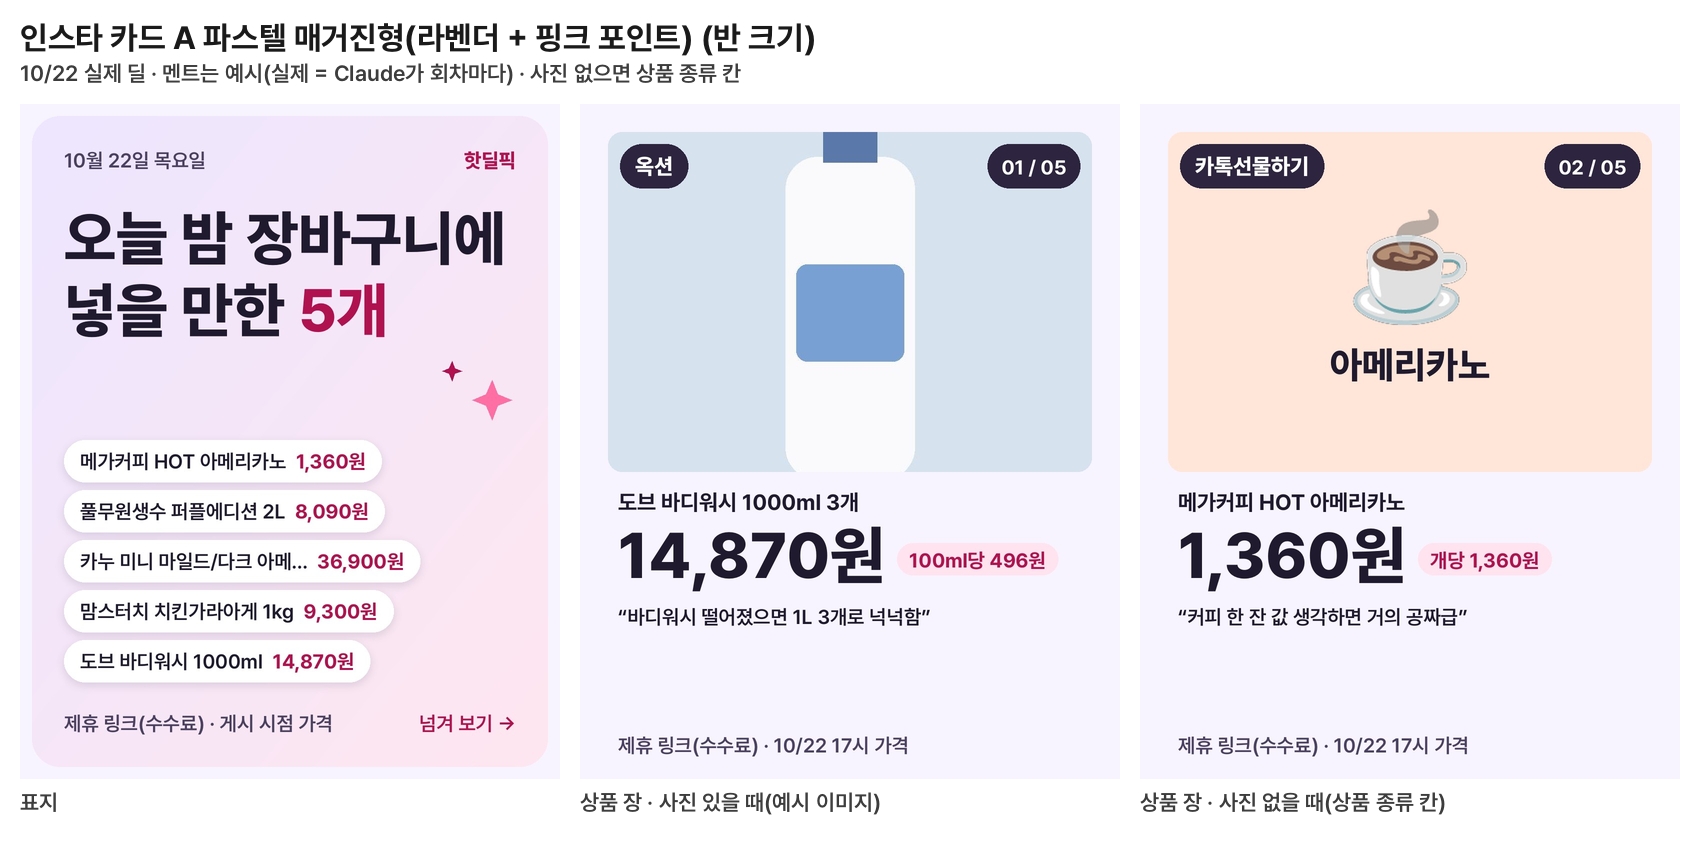
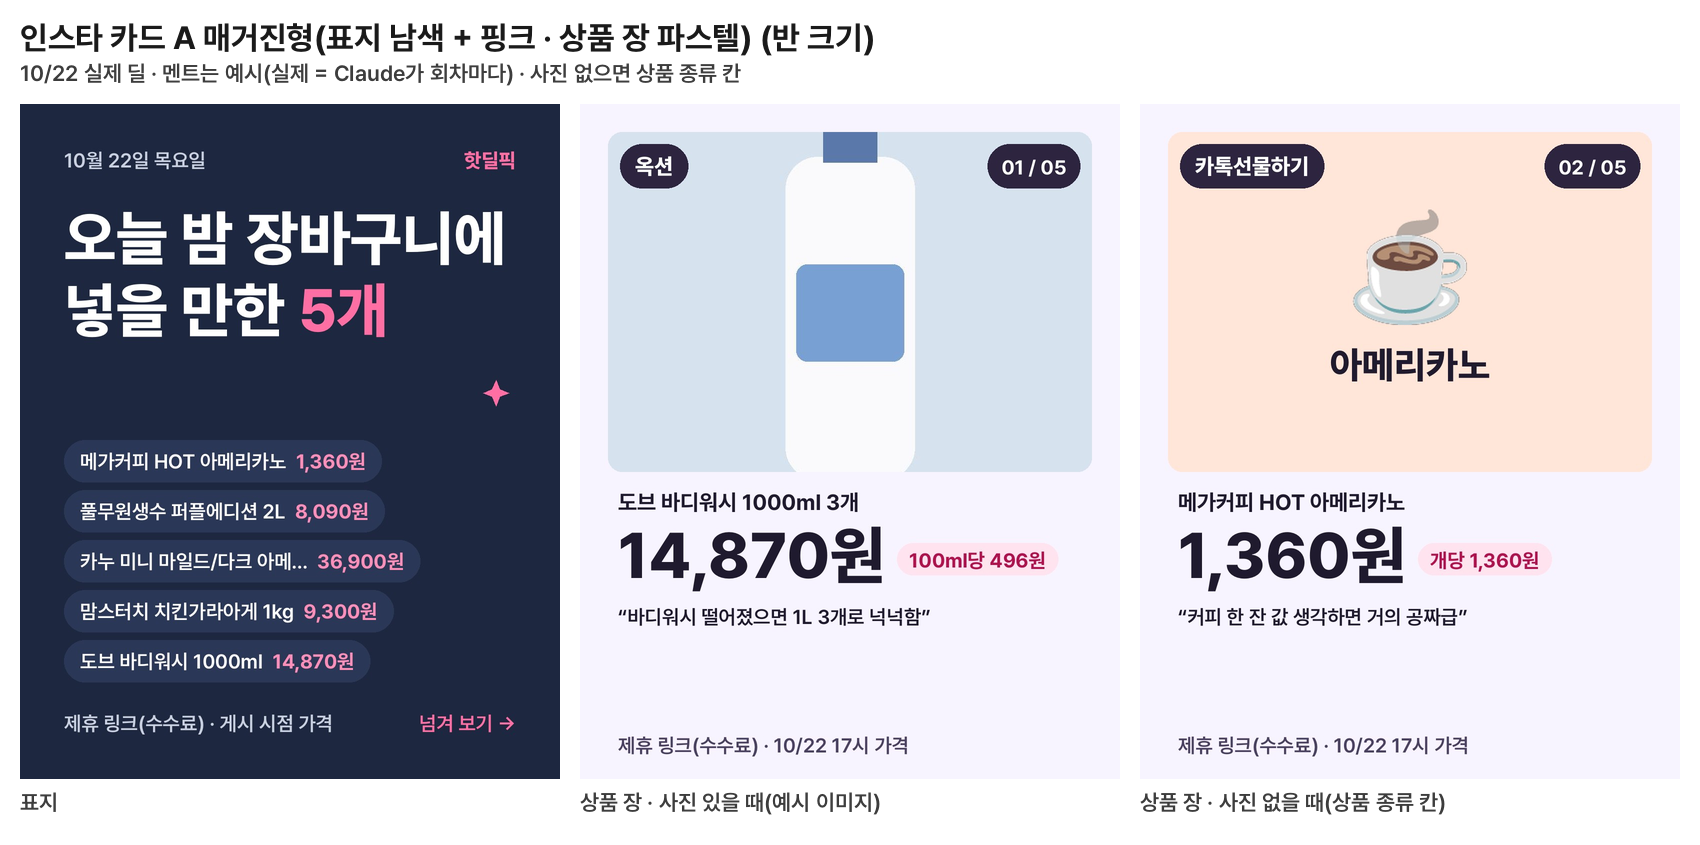
인스타 카드 A 최종 = 혼합(진우 '남색 쪽이 시인성이 더 좋다'): 표지 남색 + 핑크로 되돌림, 상품 장 파스텔 유지
- 표지 = 1e465e312(남색 #1d2740·흰 제목·핑크 #ff6fa3 강조) + 칩 가격 #ff8fb8(칩 위 5.53, 전 4.51) + ✦ 핑크 1개 작게
- 상품 장 = 540ba9f69 파스텔 그대로(라벤더 안개·종류 칸 4색 번갈아·먹색 글자·자두 알약·핑크 단위 칩)
- B·날마다 A↔B 그대로 · 대비 23조합 5:1↑ · 시안 preview_A·_small 다시

Claude-Session: https://claude.ai/code/session_0166LncLSude1PVe4eEqmcYn

Changed region(s): [[0.0, 0.1231, 0.3429, 0.9231], [0.1247, 0.0308, 0.53, 0.0615]]

diff --git a/test_hotdeal.py b/test_hotdeal.py
@@ -4909,9 +4909,9 @@ for f34 in os.listdir("t34"):  # 1/3 크기(폰 피드 썸네일 정도)
     if f34[0] in "AB" and f34.endswith(".jpg"):
         I34.open(f"t34/{f34}").resize((360, 450), I34.LANCZOS).save(f"t34/{f34[:-4]}_small.png")
 assert len([f for f in os.listdir("t34") if f.endswith("_small.png")]) == 12
-im34 = I34.open("t34/A3.jpg").convert("RGB")  # A 표지 = 파스텔 매거진(10/22 진우): 둥근 모서리 밖 라벤더 안개 · 왼쪽 위 라벤더 -> 오른쪽 아래 핑크
-assert [max(abs(a - b) for a, b in zip(im34.getpixel(xy), c)) < 10 for xy, c in (((6, 6), C34.LMIST), ((60, 60), C34.LAV), ((1020, 1290), C34.BLUSH))] == [True] * 3
-assert all(C34.contrast(c, tuple(a + (b - a) * t / 10 for a, b in zip(C34.LAV, C34.BLUSH))) >= 4.5 for c in (C34.INKA, C34.BERRY, C34.SUBA) for t in range(11))  # 그라데이션 중간색 위에서도
+px34 = I34.open("t34/A3.jpg").convert("RGB").getpixel((20, 20)); assert max(abs(a - b) for a, b in zip(px34, C34.NAVY)) < 10, px34  # A 표지 = 남색(10/22 진우 A 최종 '남색 쪽이 시인성이 더 좋다')
+px34 = I34.open("t34/As3.jpg").convert("RGB").getpixel((20, 20)); assert max(abs(a - b) for a, b in zip(px34, C34.LMIST)) < 10, px34  # A 상품 장 = 파스텔(라벤더 안개)
+assert C34.contrast(*C34.IG_PAIRS["A 칩 가격"]) >= 5  # 표지 칩 가격(전 4.51 제일 낮음) 5:1↑
 px34 = I34.open("t34/B3.jpg").convert("RGB").getpixel((20, 20)); assert max(abs(a - b) for a, b in zip(px34, C34.PAPER)) < 10, px34  # B 표지 = 크림
 px34 = I34.open("t34/As2.jpg").convert("RGB").getpixel((540, 400)); assert max(abs(a - b) for a, b in zip(px34, (200, 210, 230))) < 12, px34  # A 상품 장 = 위 사진
 shutil.rmtree("t34")
@@ -4938,7 +4938,7 @@ H.http, H.POSTS, H.IG_AUTO, H.IG_HUMAN, H.IG_LIVE, H.prune_slides = http34, "pos
 H.E.update(IG_TOKEN="pt", IG_USER_ID="178")
 s34 = {}; time.time = lambda: TK("2026-11-07 21:05"); H.ig_cards(s34)
 assert sorted(os.listdir("docs/cards/igv/2026-11-07")) == ["01.jpg", "02.jpg", "03.jpg", "04.jpg", "cover.jpg"] and not c34  # 이번 실행 = 한 벌만(인스타 X)
-cv34 = I34.open("docs/cards/igv/2026-11-07/cover.jpg").convert("RGB").getpixel((60, 60)); assert H.ig_design("2026-11-07") == "A" and max(abs(a - b) for a, b in zip(cv34, C34.LAV)) < 10  # 11/7 = 10/22에서 16일 = A
+cv34 = I34.open("docs/cards/igv/2026-11-07/cover.jpg").convert("RGB").getpixel((20, 20)); assert H.ig_design("2026-11-07") == "A" and max(abs(a - b) for a, b in zip(cv34, C34.NAVY)) < 10  # 11/7 = 10/22에서 16일 = A
 time.time = lambda: TK("2026-11-07 21:12"); H.ig_cards(s34); assert not c34  # 21:00 + 15~20분 전
 time.time = lambda: TK("2026-11-07 21:25"); H.ig_cards(s34)
 imgs34 = [b["image_url"] for u, b, m in c34 if m == "POST" and b.get("is_carousel_item")]
